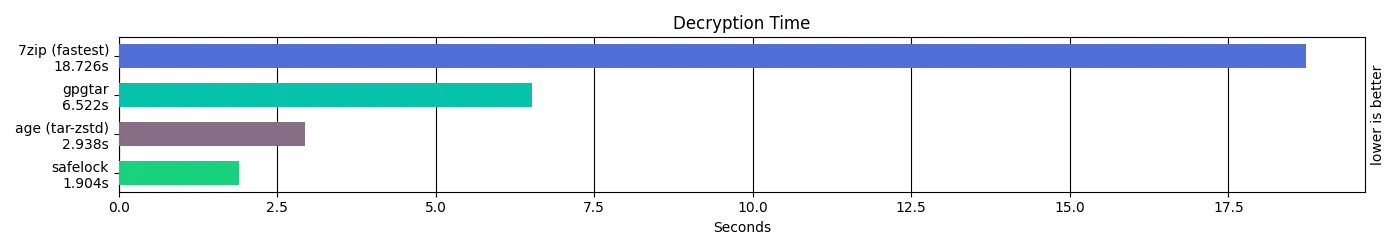
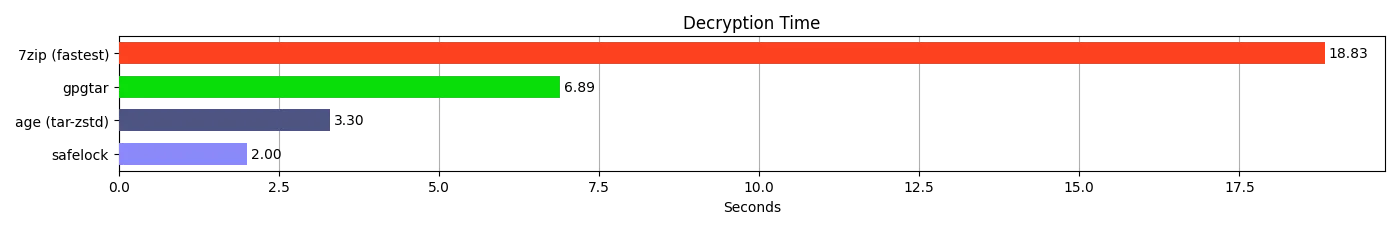
chore: update readme and benchmark results

diff --git a/benchmark/bench_and_plot.py b/benchmark/bench_and_plot.py
@@ -5,7 +5,7 @@ import random
 import matplotlib.pyplot as plt
 from matplotlib.colors import XKCD_COLORS as plot_colors
 
-safelock_cmd = "safelock-cli"
+safelock_cmd = "~/Projects/safelock-cli/safelock-cli"
 pwd = "123456789"
 rest = "60s"
 input_path = "Videos"
@@ -13,26 +13,20 @@ output_name = "test"
 output_dir = "safelock_dump"
 runs = 3
 figure_width = 14
-figure_height = 2.5
-bar_width = 0.6
+figure_height = 2.3
+bar_width = 0.65
 measure = "Seconds"
 root = os.getcwd()
 
-def get_label(i, clean=False, key="command"):
+def get_label(i, key="command"):
     matchers = [
         ('gpg', 'gpgtar',),
         ('7z', '7zip (fastest)',),
         ('age', 'age (tar-zstd)'),
         ('safelock', 'safelock',),
     ]
-    label = next((v for m, v in matchers if m in i[key]))
 
-    if clean:
-        return label
-    if key == "label":
-        return f"{label}\n{i['size']:.2f} MB"
-
-    return f"{label}\n{i['median']:.3f}s"
+    return next((v for m, v in matchers if m in i[key]))
 
 def get_name(i):
     matchers = [
@@ -48,8 +42,8 @@ def encrypt():
     err = os.system(
         f"hyperfine --runs {runs} --prepare "
         f"'sleep {rest}' "
-        f"'echo \"{pwd}\" | {safelock_cmd} encrypt {input_path} {get_name('safelock')} --quiet' "
         f"'tar cv --zstd {input_path} | . {root}/pipe_age_password.sh | age -e -p -o {get_name('age')}' "
+        f"'echo \"{pwd}\" | {safelock_cmd} encrypt {input_path} {get_name('safelock')} --quiet' "
         f"'7z a -p{pwd} -mx1 {get_name('7z')} {input_path}' "
         f"'gpgtar -e -o {get_name('gpg')} -c --yes --batch --gpg-args \"--passphrase {pwd}\" {input_path}' "
         f"--export-json {root}/encryption.json"
@@ -62,8 +56,8 @@ def decrypt():
     err = os.system(
         f"hyperfine --runs {runs} --prepare "
         f"'rm -rf {output_dir} {output_name}_*_ && mkdir {output_dir} && sleep {rest}' "
-        f"'echo \"{pwd}\" | {safelock_cmd} decrypt {get_name('safelock')} {output_dir} --quiet' "
         f"'sleep 0.05; xdotool type \"{pwd}\"; xdotool key \"Return\" | age --decrypt {get_name('age')} | tar x --zstd -f - -C {output_dir}' "
+        f"'echo \"{pwd}\" | {safelock_cmd} decrypt {get_name('safelock')} {output_dir} --quiet' "
         f"'7z e -y -p{pwd} -mx1 {get_name('7z')} -o{output_dir}' "
         f"'gpgtar -d --yes --batch --gpg-args \"--passphrase {pwd}\" {get_name('gpg')}' "
         f"--export-json {root}/decryption.json"
@@ -73,8 +67,8 @@ def decrypt():
         exit(err)
 
 os.chdir(os.path.expanduser("~"))
-# encrypt()
-# decrypt()
+encrypt()
+decrypt()
 os.chdir(root)
 plt.margins(3.5)
 
@@ -85,16 +79,15 @@ with open("encryption.json") as f:
     data = sorted(json.load(f)['results'], key=lambda i: i['median'])
     labels = [get_label(i) for i in data]
     scores = [i['median'] for i in data]
-    colors_map = {get_label(i, 1): random.choice(list(plot_colors.values())) for i in data}
-    colors = [colors_map[get_label(i, 1)] for i in data]
+    colors_map = {get_label(i): random.choice(list(plot_colors.values())) for i in data}
+    colors = [colors_map[get_label(i)] for i in data]
 
 fig, ax = plt.subplots()
 ax.set_title('Encryption Time')
 ax.set_xlabel(measure)
-ax.yaxis.set_label_position('right')
-ax.set_ylabel('lower is better')
-ax.grid(zorder=0, axis='x', color='black')
+ax.grid(zorder=0, axis='x')
 ax.barh(labels, scores, bar_width, color=colors, zorder=3)
+ax.bar_label(ax.containers[0], label_type='edge', padding=3, fmt=lambda i: f"{i:.2f}")
 fig.set_size_inches(w=figure_width, h=figure_height)
 fig.tight_layout()
 fig.savefig("encryption-time.webp", transparent=True, format="webp")
@@ -106,15 +99,14 @@ with open("decryption.json") as f:
     data = sorted(json.load(f)['results'], key=lambda i: i['median'])
     labels = [get_label(i) for i in data]
     decryption = [i['median'] for i in data]
-    colors = [colors_map[get_label(i, 1)] for i in data]
+    colors = [colors_map[get_label(i)] for i in data]
 
 fig, ax = plt.subplots()
 ax.set_title('Decryption Time')
 ax.set_xlabel(measure)
-ax.yaxis.set_label_position('right')
-ax.set_ylabel('lower is better')
-ax.grid(zorder=0, axis='x', color='black')
+ax.grid(zorder=0, axis='x')
 ax.barh(labels, decryption, bar_width, color=colors, zorder=3)
+ax.bar_label(ax.containers[0], label_type='edge', padding=3, fmt=lambda i: f"{i:.2f}")
 fig.set_size_inches(w=figure_width, h=figure_height)
 fig.tight_layout()
 fig.savefig("decryption-time.webp", transparent=True, format="webp")
@@ -126,20 +118,19 @@ os.chdir(os.path.expanduser("~"))
 data = sorted([{
     'size': os.path.getsize(get_name(get_label(i))) / 1024 / 1024,
     'label': get_label(i),
-    'color': colors_map[get_label(i, 1)],
+    'color': colors_map[get_label(i)],
 } for i in data], key=lambda i: i['size'])
 os.chdir(root)
-labels = [get_label(i, key='label') for i in data]
+labels = [get_label(i, 'label') for i in data]
 sizes = [i['size'] for i in data]
 colors = [i['color'] for i in data]
 
 fig, ax = plt.subplots()
 ax.set_title('File Size')
-ax.set_xlabel("Megabytes")
-ax.yaxis.set_label_position('right')
-ax.set_ylabel('lower is better')
-ax.grid(zorder=0, axis='x', color='black')
+ax.set_xlabel("MegaBytes")
+ax.grid(zorder=0, axis='x')
 ax.barh(labels, sizes, bar_width, color=colors, zorder=3)
+ax.bar_label(ax.containers[0], label_type='edge', padding=3, fmt=lambda i: f"{i:.0f}")
 fig.set_size_inches(w=figure_width, h=figure_height)
 fig.tight_layout()
 fig.savefig("file-size.webp", transparent=True, format="webp")

diff --git a/README.md b/README.md
@@ -2,10 +2,13 @@
 <h1>
 safelock-cli
 <a href='https://github.com/mrf345/safelock-cli/actions/workflows/ci.yml'>
-  <img src='https://github.com/mrf345/safelock-cli/actions/workflows/ci.yml/badge.svg'>
+  <img src='https://github.com/mrf345/safelock-cli/actions/workflows/ci.yml/badge.svg' alt='build status>
+</a>
+<a href='https://github.com/golangci/golangci-lint/tree/master'>
+  <img src='https://img.shields.io/badge/linter-golangci--lint-blue.svg?logo=go&logoColor=white' alt='linter badge'>
 </a>
 <a href="https://pkg.go.dev/github.com/mrf345/safelock-cli/safelock">
-  <img src="https://pkg.go.dev/badge/github.com/mrf345/safelock-cli/.svg" alt="Go Reference">
+  <img src='https://img.shields.io/badge/reference-blue.svg?logo=go&logoColor=white' alt='Go Reference'>
 </a>
 </h1>
 
@@ -61,6 +64,7 @@ You can find interactive examples of using it as a package to [encrypt](https://
 |-------------------------|---------------------------------------------|
 | Iterations              | 3                                           |
 | Memory size             | 64 Megabytes                                |
+| Salt length             | 16                                          |
 | Key length              | 32                                          |
 | Threads                 | Number of available cores `runtime.NumCPU()`|
 | Minimum password length | 8                                           |
